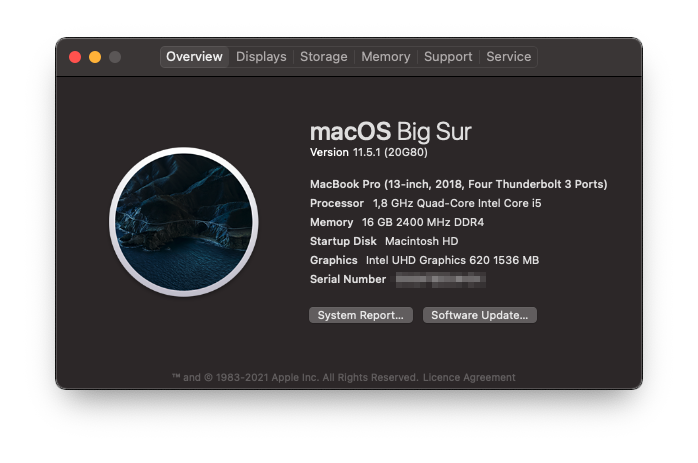
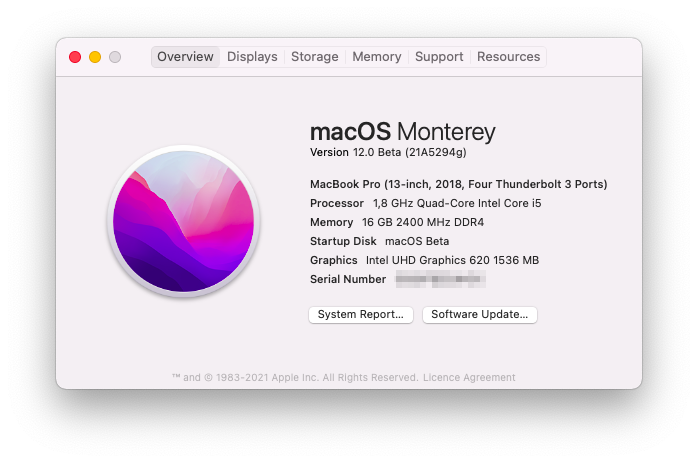
[macOS Monterey Beta] Updated to macOS Monterey 12.0 Beta 4 (21A5294g)

diff --git a/README.md b/README.md
@@ -11,7 +11,7 @@
 | **Storage**    | `Western Digital SN750 Black NVMe 512GB`  |
 | **Audio Code** | `Realtek ALC295 (ALC3254)`                |
 | **WiFi Card**  | `BCM943602BAED aka DW1830`                |
-| **OS**         | `macOS Big Sur 11.5.1 (20G80)`            |
+| **OS**         | `macOS Monterey 12.0 Beta (21A5294g)`     |
 | **BIOS**       | `v1.18`                                   |
 
 
